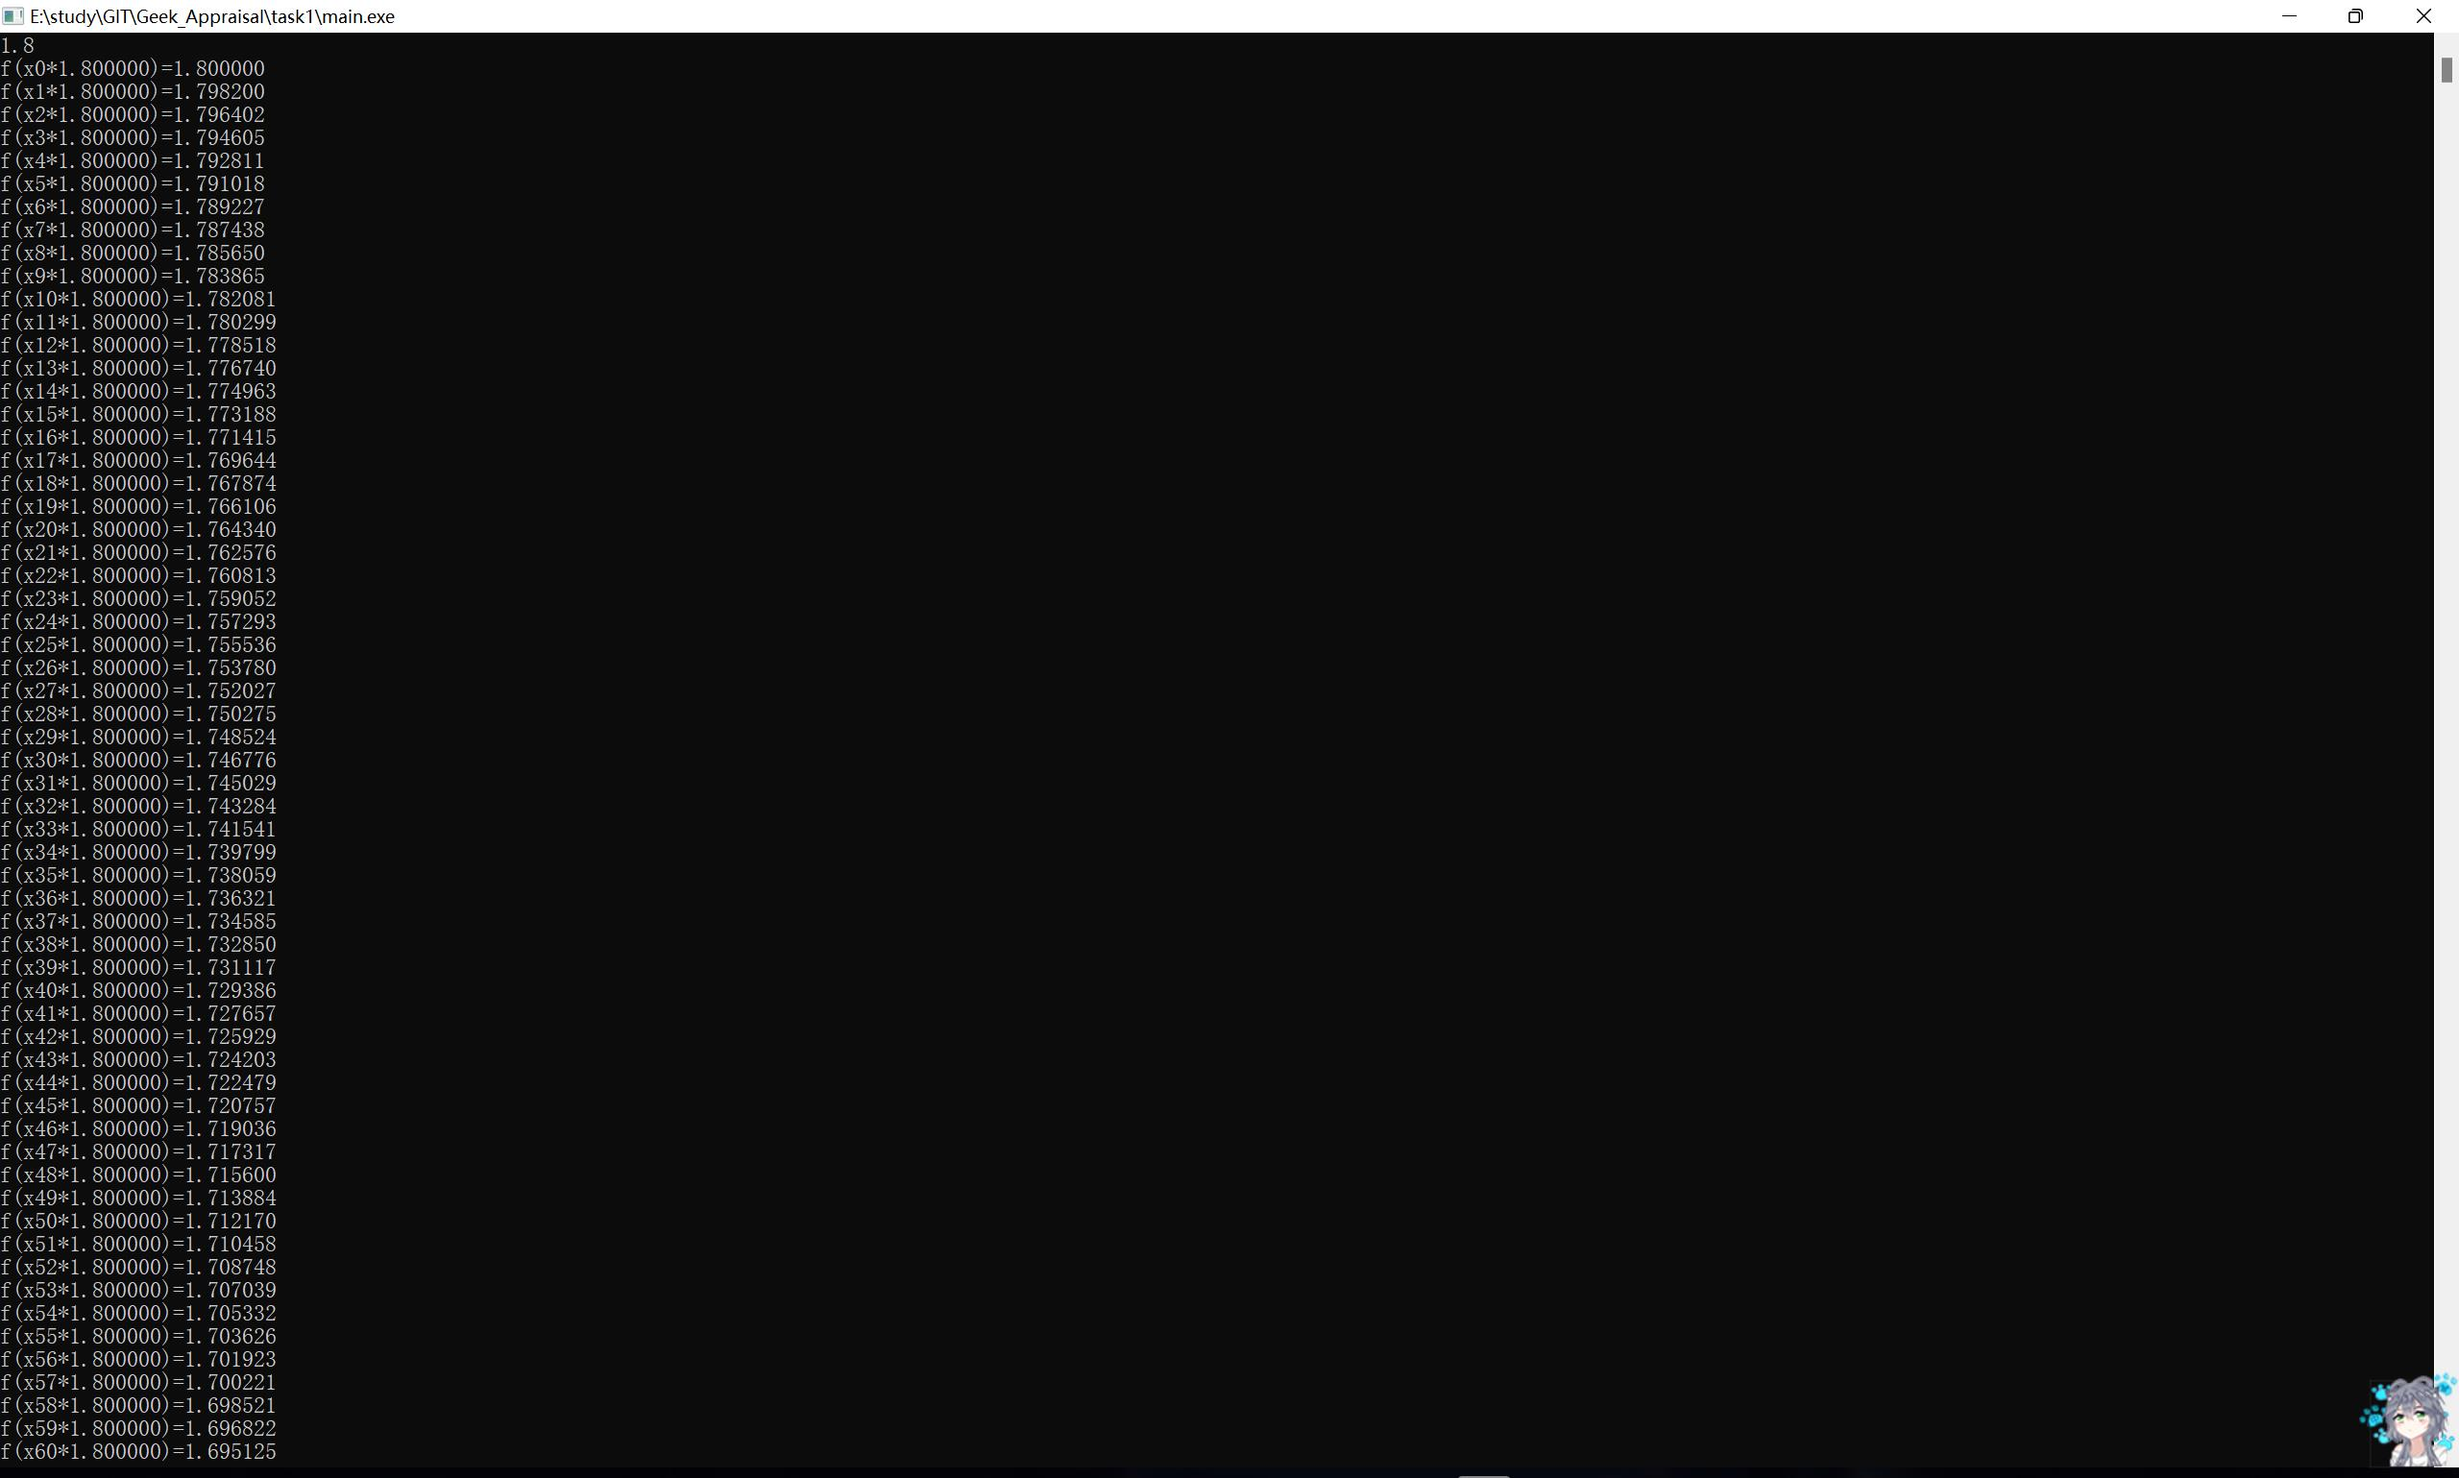
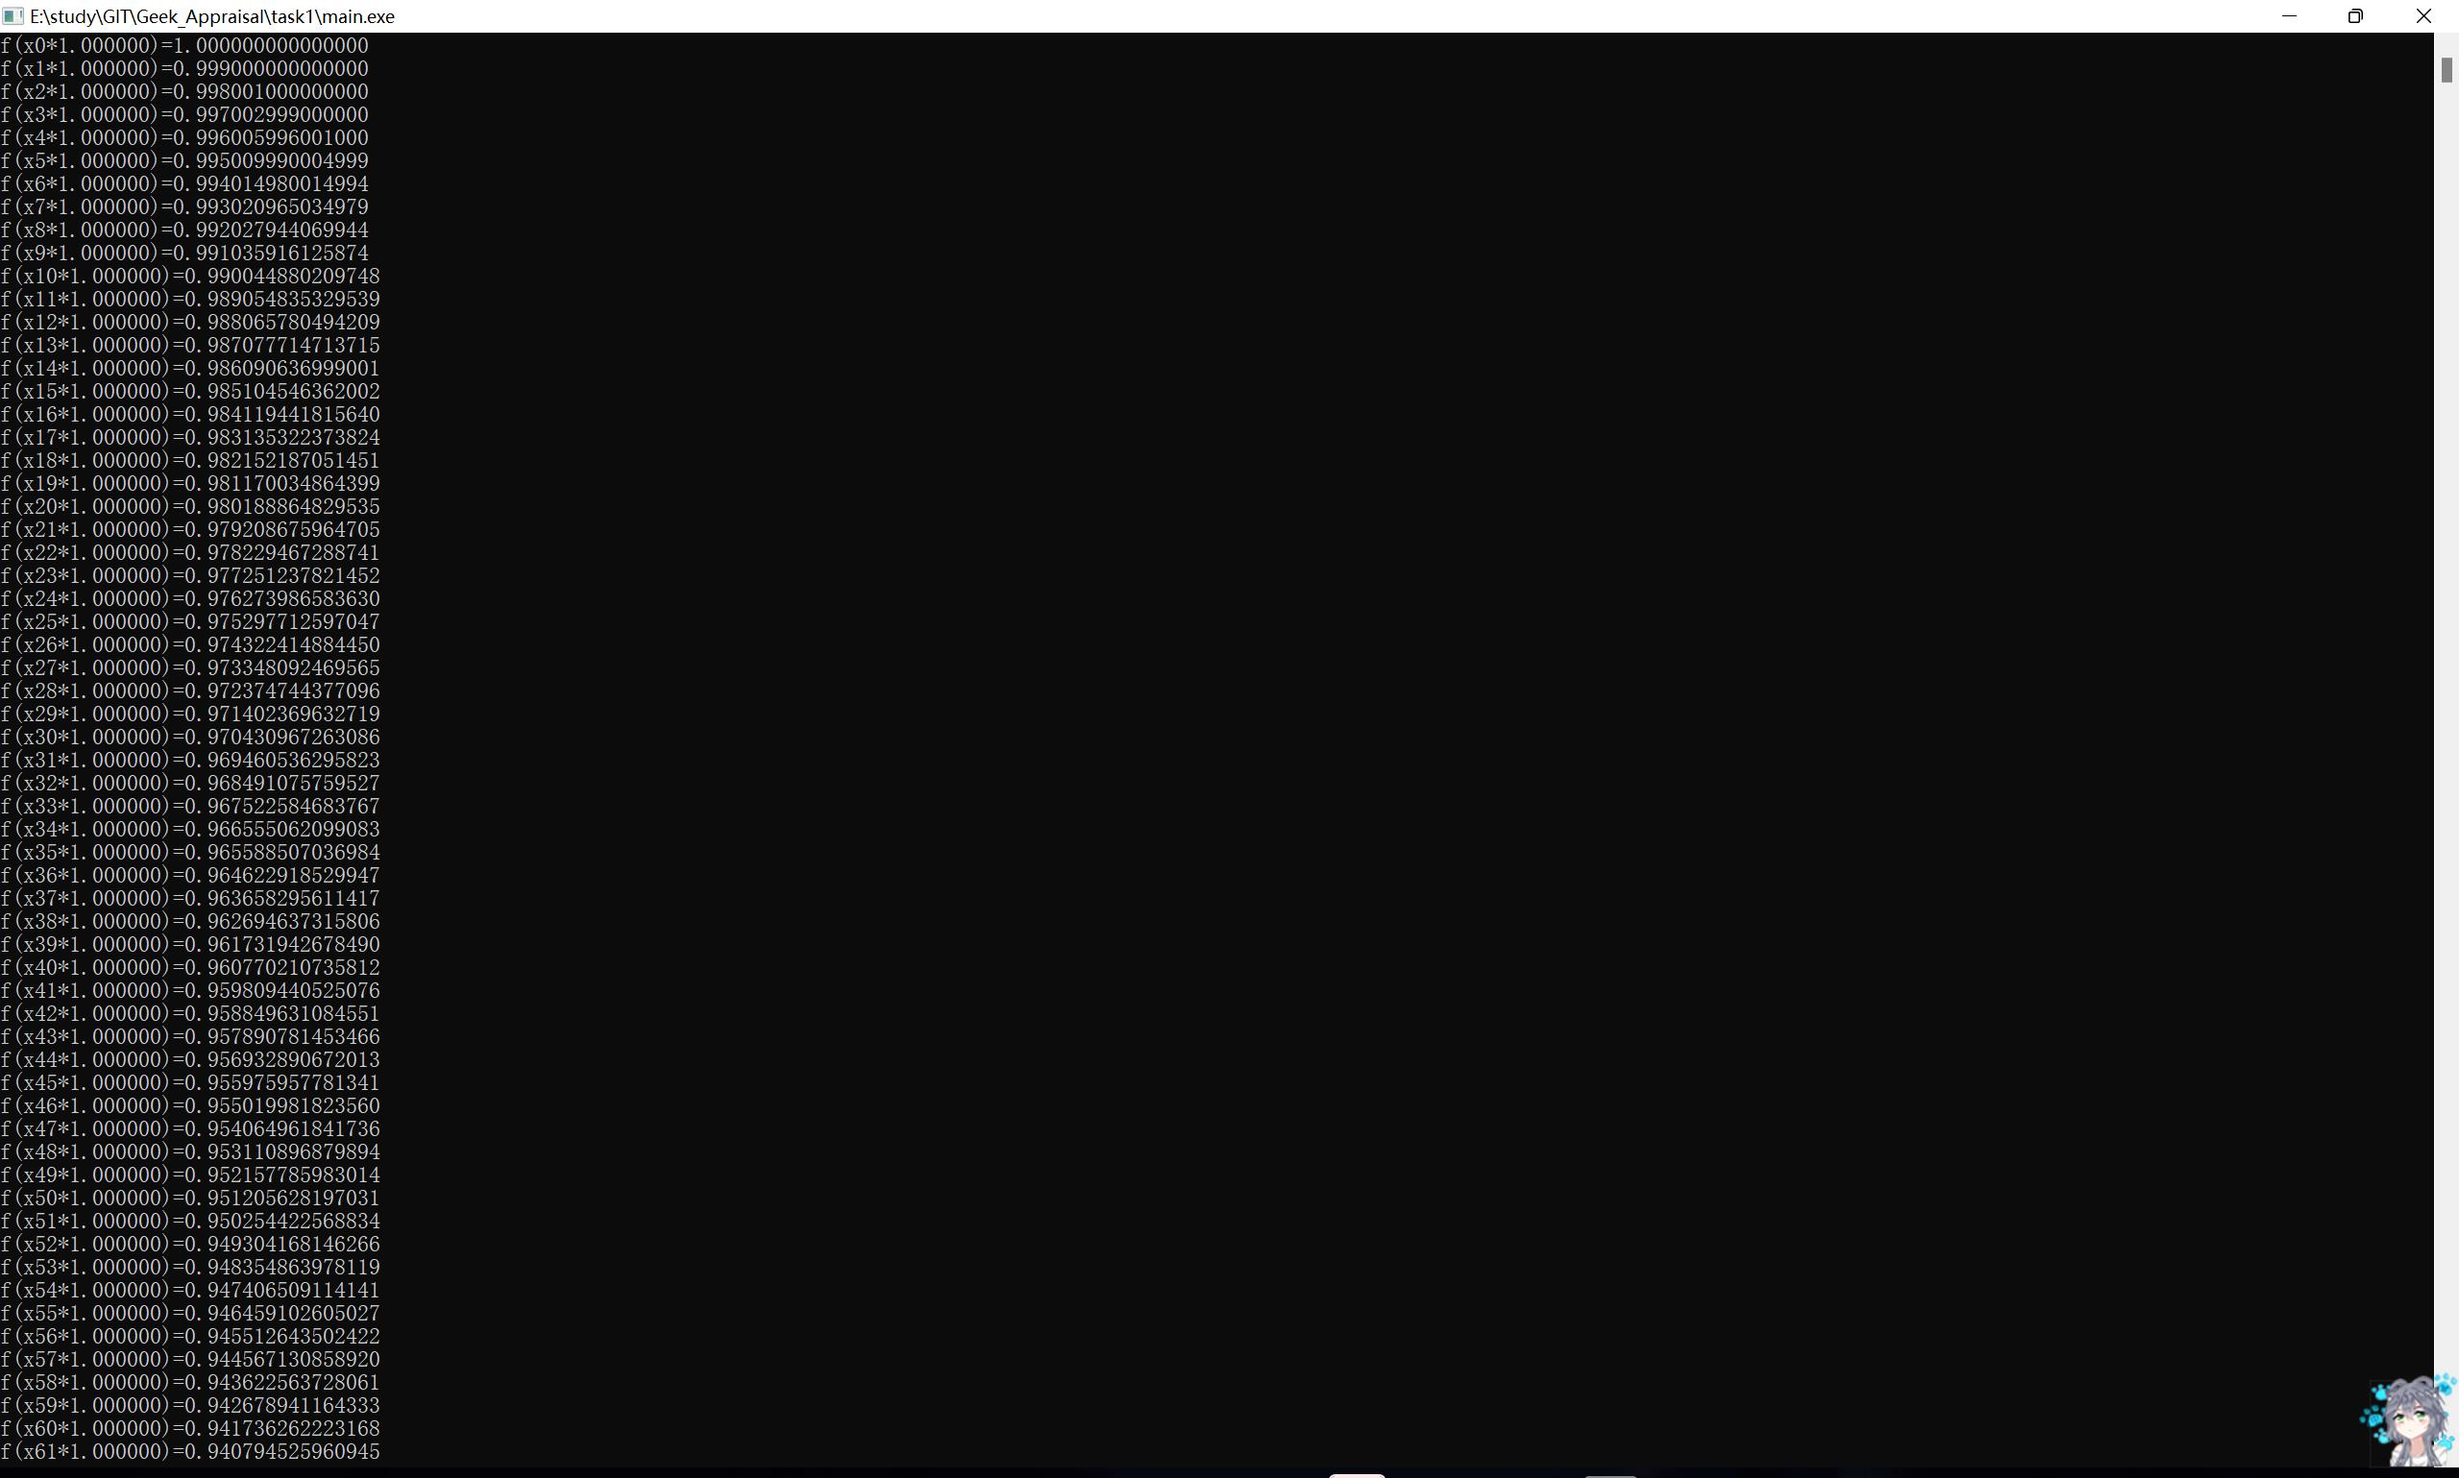
main.c

diff --git a/task1/main.c b/task1/main.c
@@ -13,13 +13,13 @@ int main()
 {
 	int n;
 	double y,a,h,last;
-	scanf_s("%lf", &a);
-	//a=1;
+	//scanf_s("%lf", &a);
+	a=1;
 	n = 0;
 	y = a;
 	h = 0.001;
 	while (1) {
-		printf("f(x%d*%lf)= %.15f\n", n, a, y);
+		printf("f(x%d*%lf)=%.15f\n", n, a, y);
 		last = y;
 		y = y - h*y;
 		if (last > y) {
@@ -33,7 +33,7 @@ int main()
 		n++;
 	}
 
-	printf("f(x%d*%lf)= %.15f\n", n, a, y);
+	printf("f(x%d*%lf)=%.15f\n", n, a, y);
 
 	return 0;
 }
